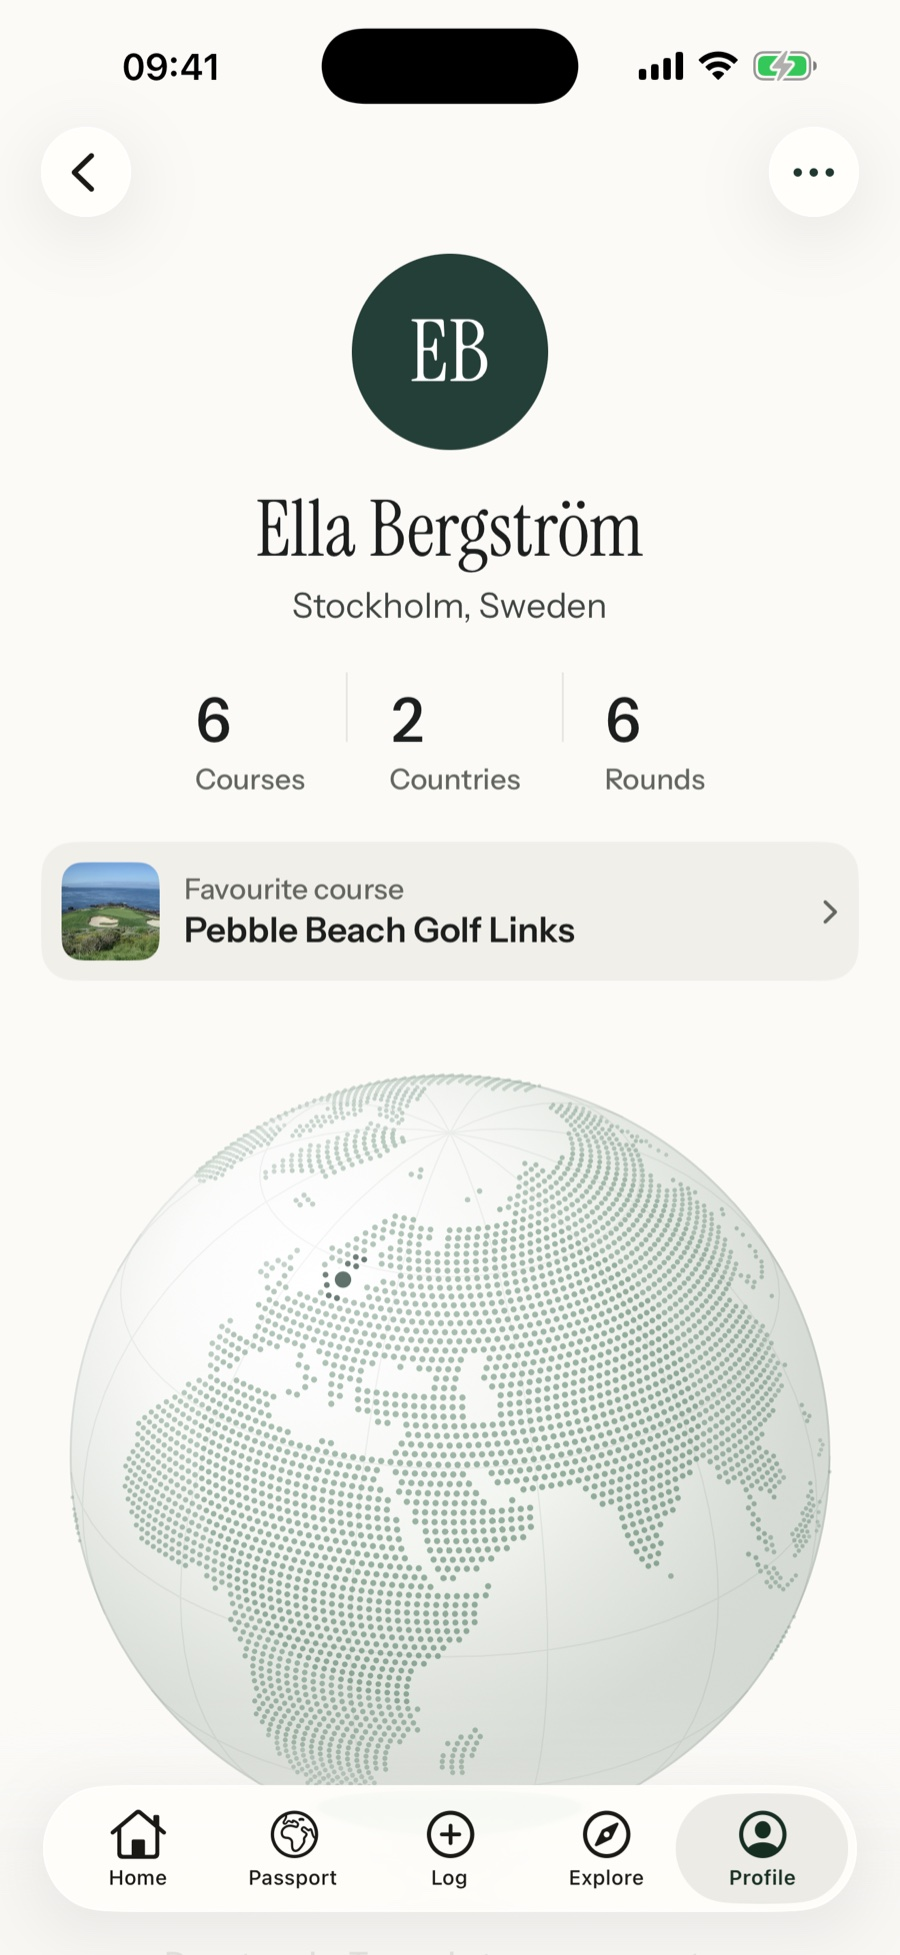
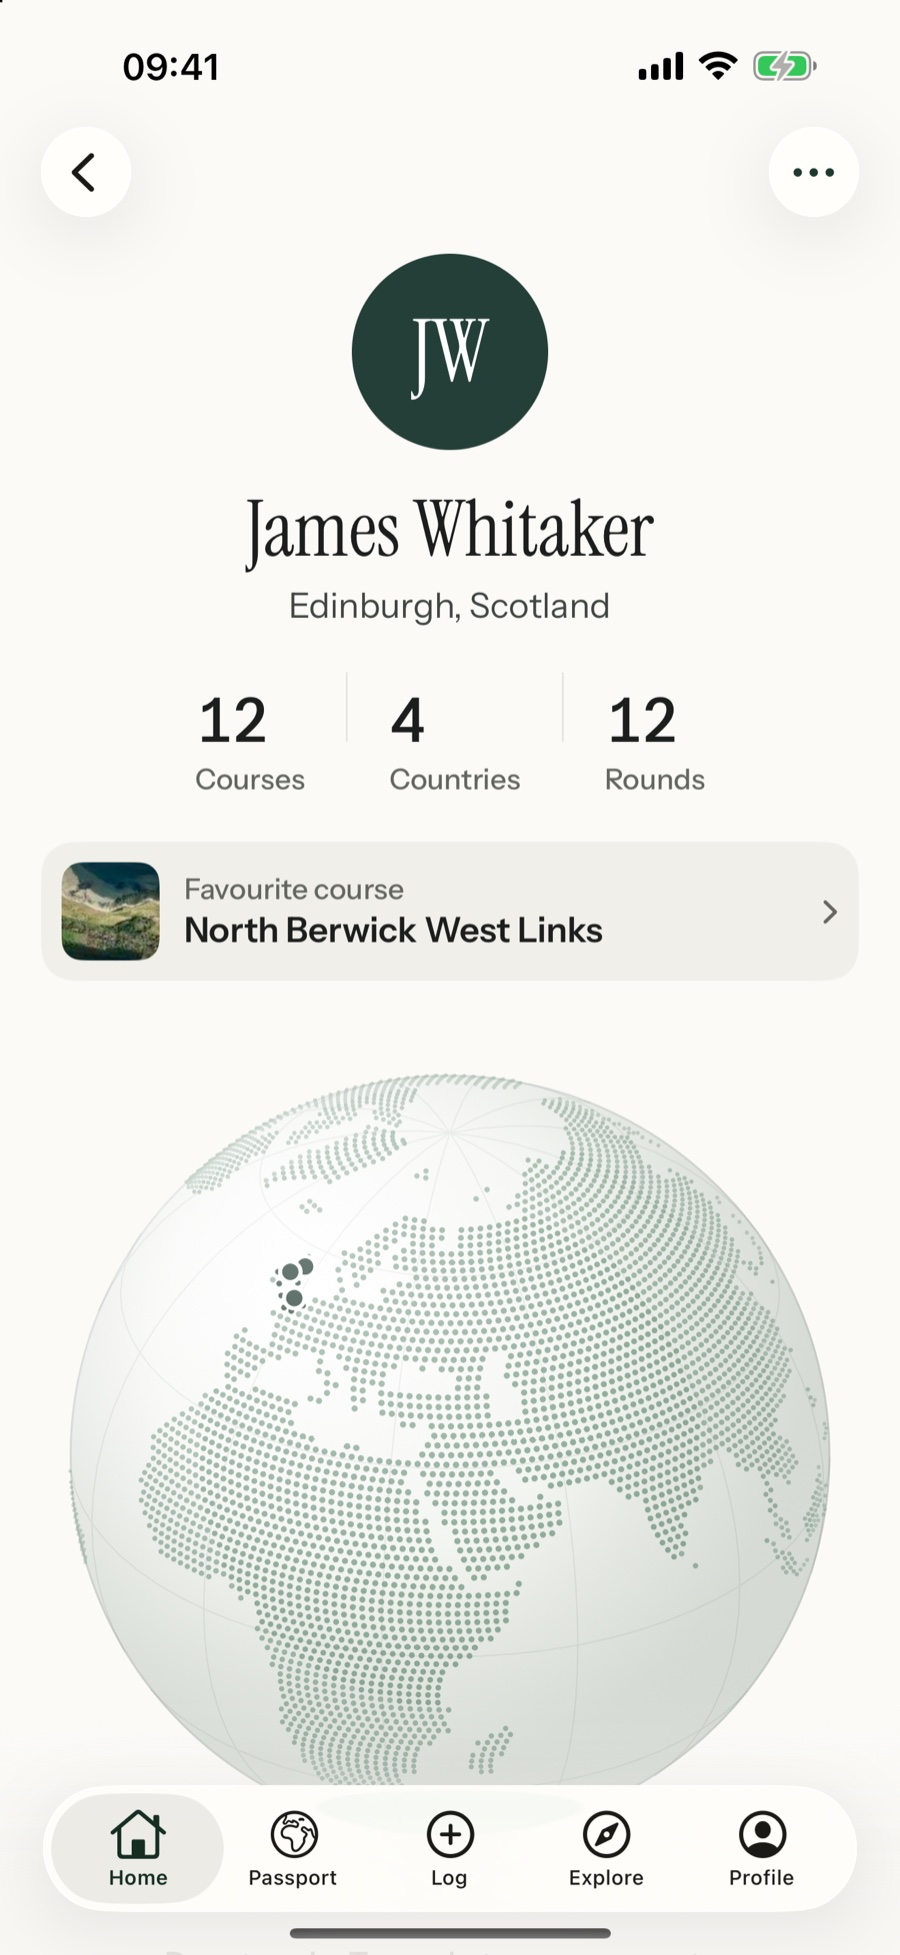
Showcase Pebble Beach and Cypress Point; current friends and profile screens

diff --git a/index.html b/index.html
@@ -58,7 +58,7 @@
       <p>Play somewhere new and Pinzo presses a stamp into your passport. Fifty milestone medals arrive too, in bronze, silver and gold: your fiftieth course, breaking eighty, the Old Course, a golf trip abroad.</p>
     </article>
     <article class="step reveal">
-      <figure class="device"><img src="/assets/screens/explore.jpg" alt="Explore, with 3D aerial views of nearby courses"></figure>
+      <figure class="device"><img src="/assets/screens/course.jpg" alt="Cypress Point's course page, with a photo across the Pacific, the course's facts and a bucket list button"></figure>
       <span class="num">03</span>
       <h2>Dream about what's next.</h2>
       <p>Fly over any course in 3D, find the ones near you, and keep a bucket list of places you've always wanted to play. Pinzo marks the day you finally do.</p>
@@ -72,7 +72,7 @@
     </div>
     <div class="split-media pair">
       <figure class="device"><img src="/assets/screens/home.jpg" alt="Home, with the latest round at Kingsbarns above the sea"></figure>
-      <figure class="device"><img src="/assets/screens/log.jpg" alt="Logging a round at the Old Course, St Andrews: date, score, scorecard and photos"></figure>
+      <figure class="device"><img src="/assets/screens/round.jpg" alt="A round at Pebble Beach: the seventh green above the Pacific, the score, a new United States stamp and a note from the day"></figure>
     </div>
   </section>
 
@@ -82,7 +82,7 @@
       <p>Invite the people you play with and see where each other has been: their courses, their stamps, and a note when they play somewhere new. Friends are added with a private link, so nobody can find you unless you ask them to. Photos and notes stay yours, and scores stay private unless you choose to share them.</p>
     </div>
     <div class="split-media pair">
-      <figure class="device"><img src="/assets/screens/friends.jpg" alt="Home, showing friends' latest rounds: Oscar at Falsterbo, James at North Berwick, Freja at Kingsbarns"></figure>
+      <figure class="device"><img src="/assets/screens/friends.jpg" alt="Friends' rounds: Oscar at Falsterbo, James at North Berwick, Freja at Kingsbarns, Sofia at Valderrama"></figure>
       <figure class="device"><img src="/assets/screens/friend.jpg" alt="A friend's passport, with their courses, countries, favourite course and globe"></figure>
     </div>
   </section>
